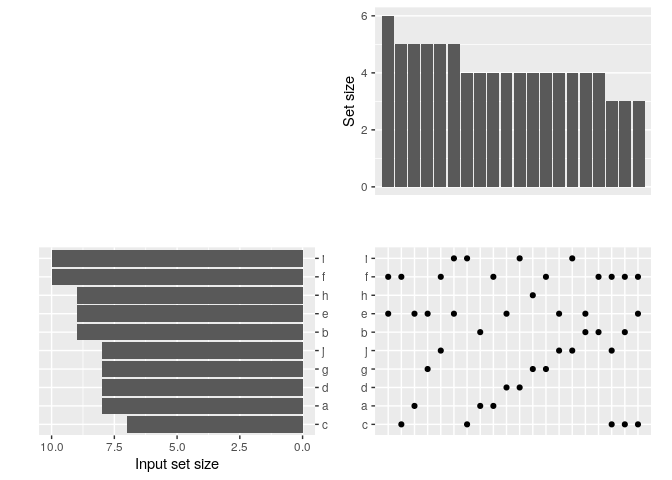
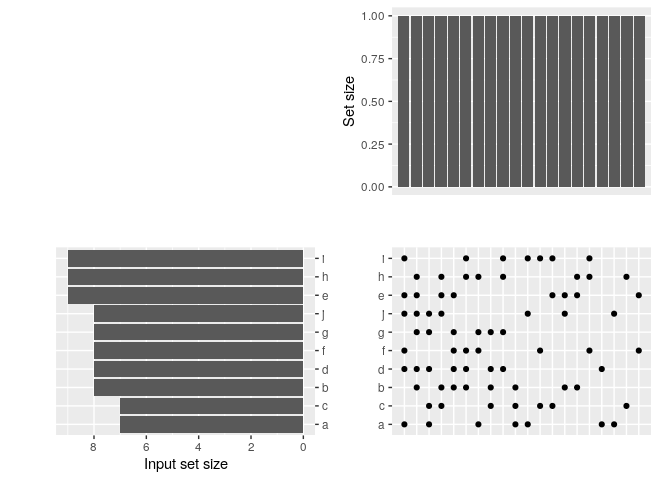
Bugfix

diff --git a/README.md b/README.md
@@ -23,17 +23,18 @@ This is a basic example which shows you how to solve a common problem:
 
 ``` r
 library("here")
-#> here() starts at /home/alan/Documents/github/agitated
 load_all(here())
 #> Loading agitated
-#> 
-#> Attaching package: 'testthat'
-#> The following objects are masked from 'package:devtools':
-#> 
-#>     setup, test_file
 library("agitated")
-## basic example code
+## exclusive intersections
 agitated(example_data())
 ```
 
 <img src="man/figures/README-example-1.png" width="100%" />
+
+``` r
+## exclusive intersections, higher limit on number of sets (default is 20)
+agitated(example_data(), exclusive = FALSE, nsets = 30)
+```
+
+<img src="man/figures/README-example2-1.png" width="100%" />
